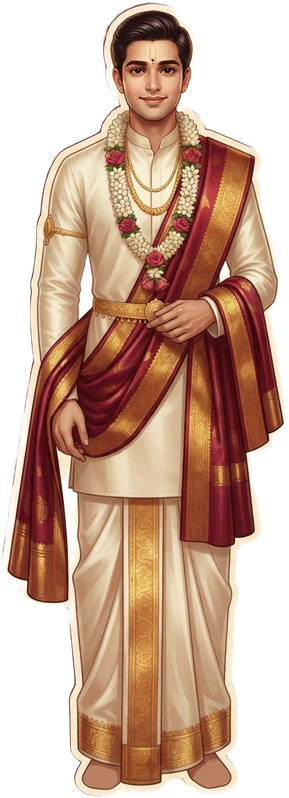
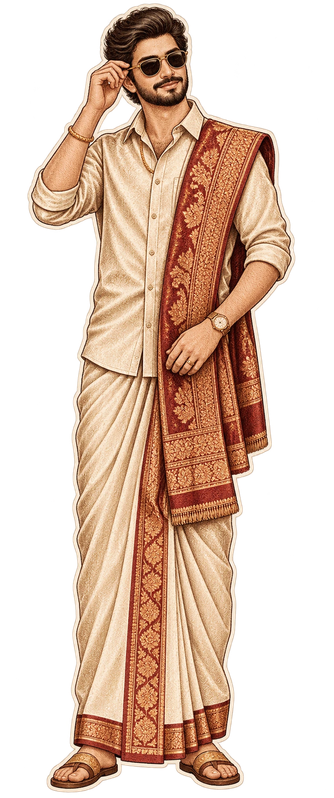
Need help: mobile stack like the mockup, lighter glass, kolam corners, new groom

diff --git a/css/style.css b/css/style.css
@@ -4052,3 +4052,38 @@ html[lang="ta"] .stamp--contact .help-side { font-style: normal; letter-spacing:
 #contacts .section-head { margin-bottom: clamp(70px, 8vw, 110px) !important; }
 #contacts .stamp--contact .help-p__name { font-size: clamp(1.45rem, 2.6vw, 2.05rem) !important; white-space: nowrap; }
 @media (max-width: 899px) { #contacts .stamp--contact .help-p__name { white-space: normal; } #contacts .section-head { margin-bottom: 40px !important; } }
+
+/* ---------- 124 NEED HELP: MOBILE STACK LIKE THE MOCKUP, LESS OPAQUE GLASS, KOLAM CORNERS, NEW GROOM ---------- */
+/* glass: more see-through, more blur */
+#contacts .help-col.stamp .stamp__paper { background:
+    url("../assets/images/home/kolam-gold.png") left 18px top 14px / 46px 46px no-repeat,
+    url("../assets/images/home/kolam-gold.png") right 20px top 16px / 42px 42px no-repeat,
+    url("../assets/images/home/kolam-gold.png") left 18px bottom 14px / 46px 46px no-repeat,
+    url("../assets/images/home/kolam-gold.png") right 20px bottom 16px / 42px 42px no-repeat,
+    radial-gradient(ellipse 60% 55% at 92% 0%, rgba(255, 255, 255, .14), rgba(255, 255, 255, 0) 70%),
+    linear-gradient(120deg, rgba(255, 255, 255, .07), rgba(255, 255, 255, 0) 38%),
+    linear-gradient(160deg, rgba(150, 34, 38, .26), rgba(96, 18, 22, .32)) !important;
+  -webkit-backdrop-filter: blur(22px) saturate(1.3); backdrop-filter: blur(22px) saturate(1.3); }
+/* groom: the attached picture, same height as the bride */
+.help-col--groom .stamp__face::before { background-image: url("../assets/images/home/help-groom.png") !important; }
+
+/* mobile: stacked like the mockup. figure in the top-left corner of the card, name, then Call and WhatsApp side by side */
+@media (max-width: 899px) {
+  #contacts .help-card { gap: 36px !important; }
+  #contacts .help-col.stamp .stamp__face { padding: 44px 26px 34px !important; }
+  #contacts .help-col--bride.stamp .stamp__face::before, #contacts .help-col--groom.stamp .stamp__face::before { top: -48px !important; bottom: auto !important; width: 96px !important; height: 230px !important; background-size: contain !important; background-position: center bottom !important; transform: none !important; }
+  #contacts .help-col--bride.stamp .stamp__face::before { left: -8px !important; right: auto !important; }
+  #contacts .help-col--groom.stamp .stamp__face::before { right: -8px !important; left: auto !important; }
+  #contacts .help-col.stamp .stamp__face { padding-left: 116px !important; padding-right: 22px !important; }
+  #contacts .help-col--bride.stamp .stamp__face { padding-left: 116px !important; }
+  #contacts .help-col--groom.stamp .stamp__face { padding-left: 116px !important; }
+  #contacts .stamp--contact .help-side { padding-right: 0 !important; font-size: 1.35rem !important; }
+  #contacts .stamp--contact .help-p, #contacts .stamp--contact .help-p + .help-p { display: block !important; padding: 18px 0 16px !important; }
+  #contacts .stamp--contact .help-p__btns { display: grid !important; grid-template-columns: 1fr 1fr; gap: 10px !important; margin-top: 14px !important; width: 100%; }
+  #contacts .help-card .stamp--contact .help-p__btns a { min-height: 50px; font-size: 1rem !important; padding: 0 14px !important; }
+}
+@media (max-width: 420px) {
+  #contacts .help-col.stamp .stamp__face { padding-left: 104px !important; padding-right: 18px !important; }
+  #contacts .stamp--contact .help-p__name { font-size: 1.4rem !important; }
+}
+

diff --git a/index.html b/index.html
@@ -25,7 +25,7 @@
 
   <link rel="preload" as="image" href="assets/images/home/entrance-wide.jpg" media="(min-aspect-ratio: 4/5)">
   <link rel="preload" as="image" href="assets/images/home/entrance-tall.jpg" media="(max-aspect-ratio: 4/5)">
-  <link rel="stylesheet" href="css/style.css?v=105">
+  <link rel="stylesheet" href="css/style.css?v=106">
 </head>
 <body>
 
@@ -550,9 +550,9 @@
      ========================================================= -->
 <script src="https://cdnjs.cloudflare.com/ajax/libs/gsap/3.12.5/gsap.min.js" defer></script>
 <script src="https://cdnjs.cloudflare.com/ajax/libs/qrcodejs/1.0.0/qrcode.min.js" defer></script>
-<script src="js/config.js?v=105" defer></script>
-<script src="js/upload.js?v=105" defer></script>
-<script src="js/main.js?v=105" defer></script>
+<script src="js/config.js?v=106" defer></script>
+<script src="js/upload.js?v=106" defer></script>
+<script src="js/main.js?v=106" defer></script>
 
 <!-- Safety net: if main.js fails to start, never leave guests stuck behind the intro -->
 <script>
